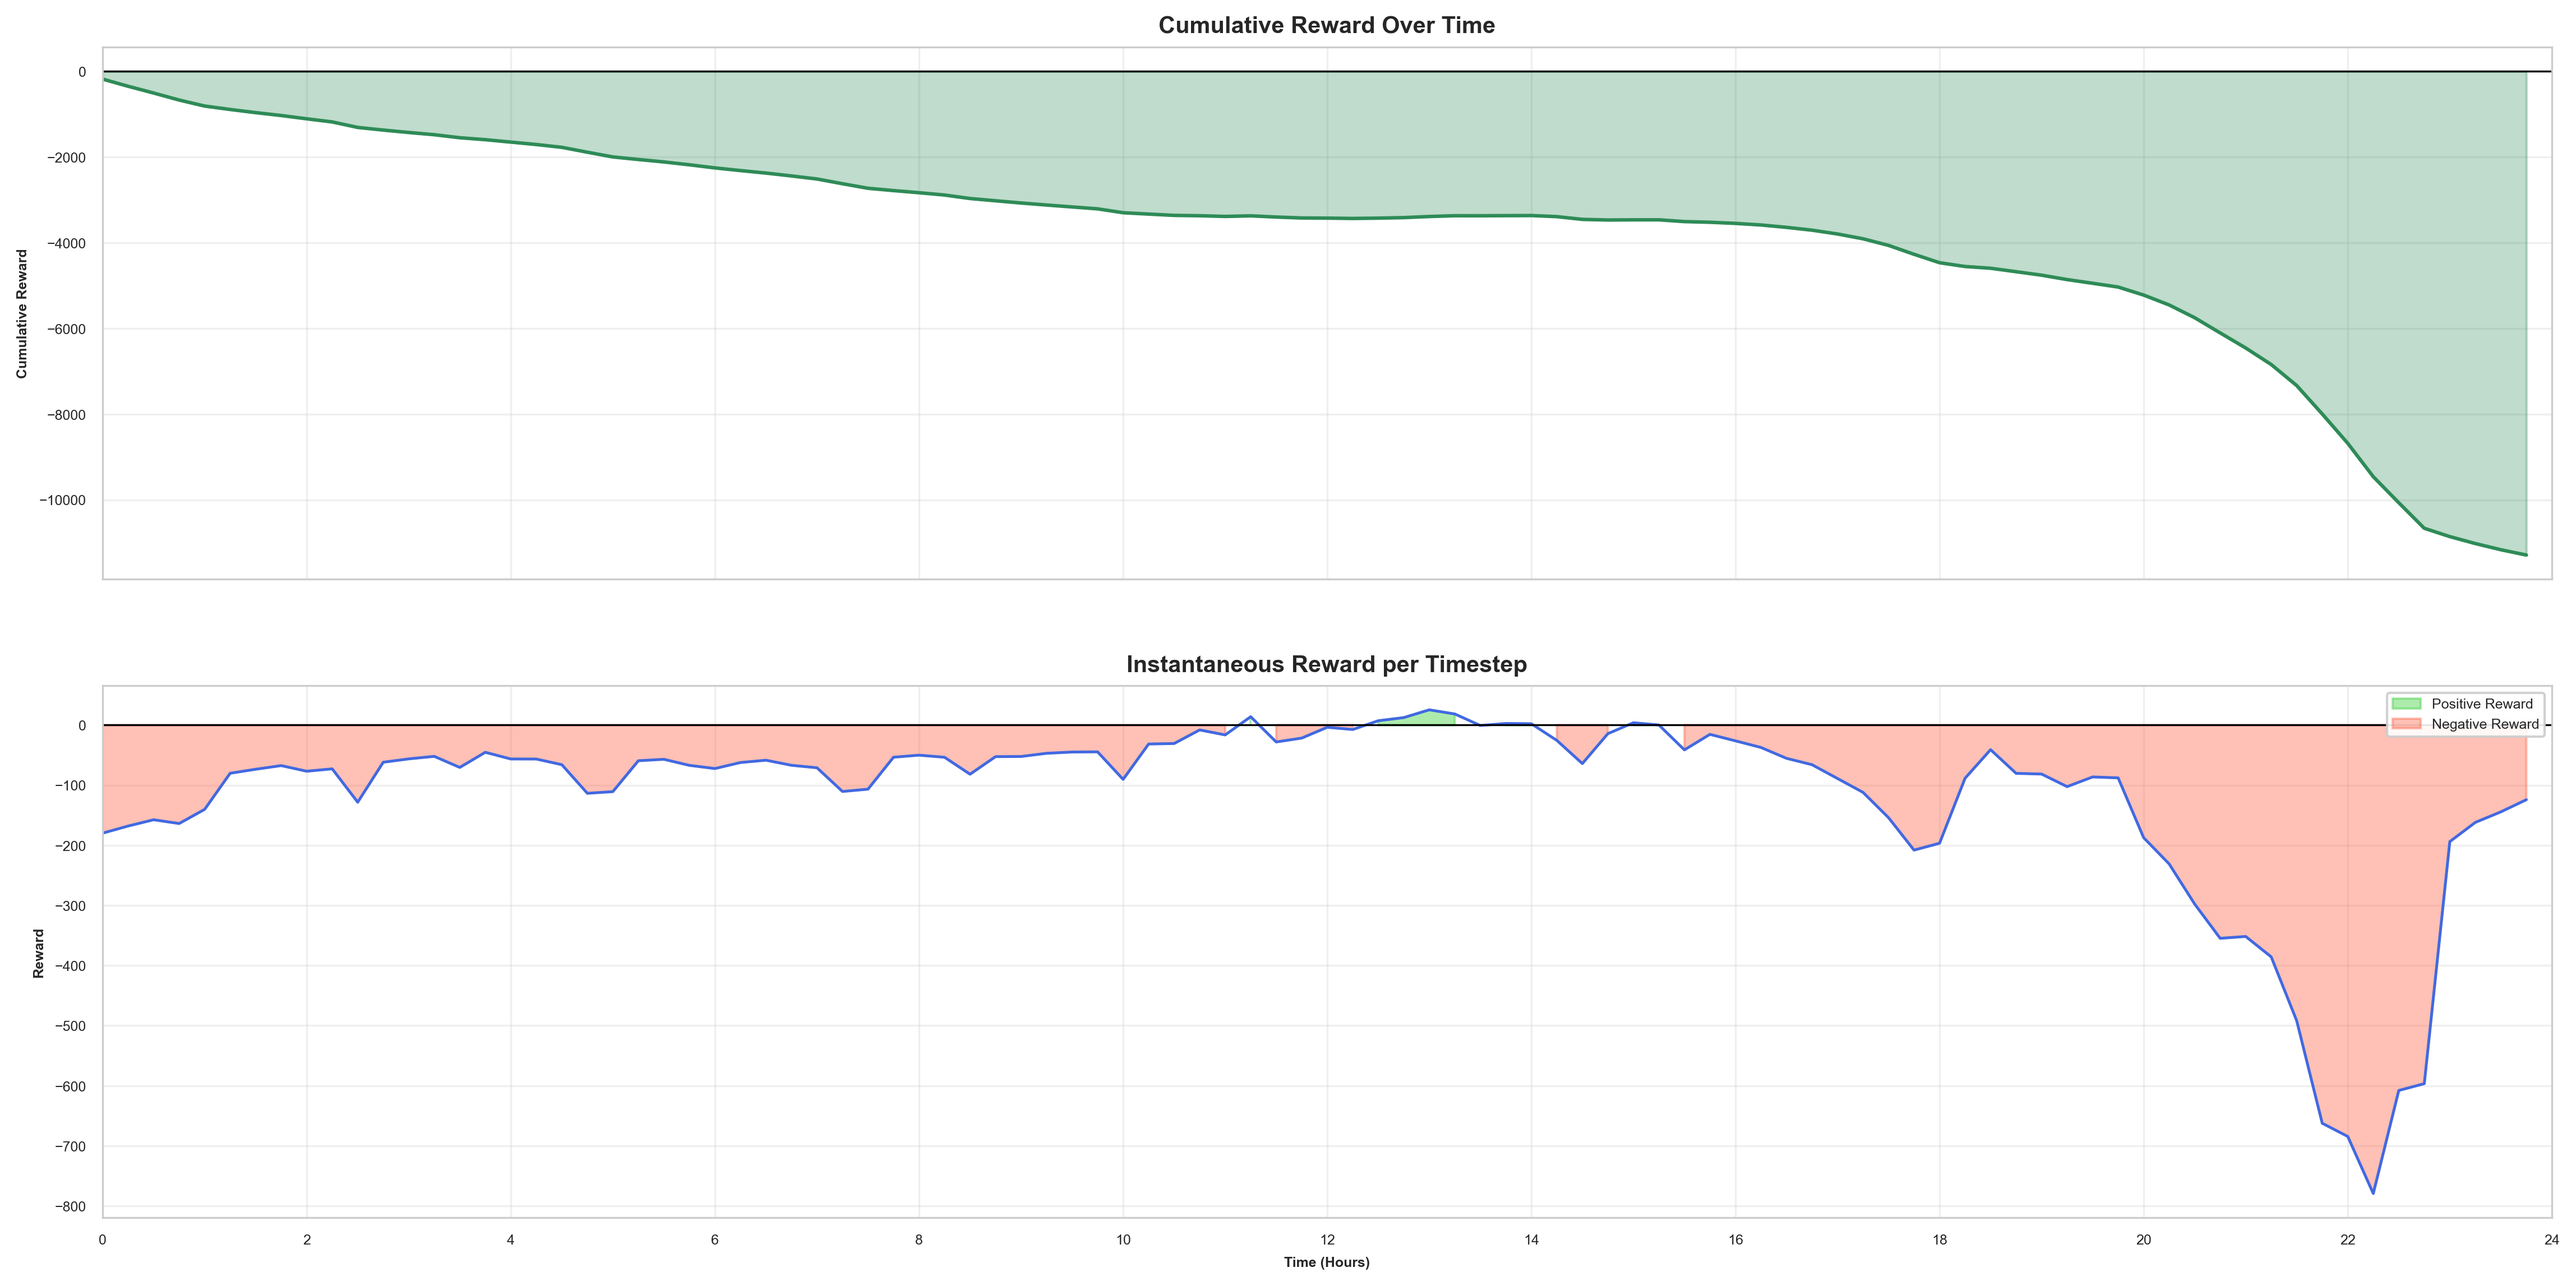
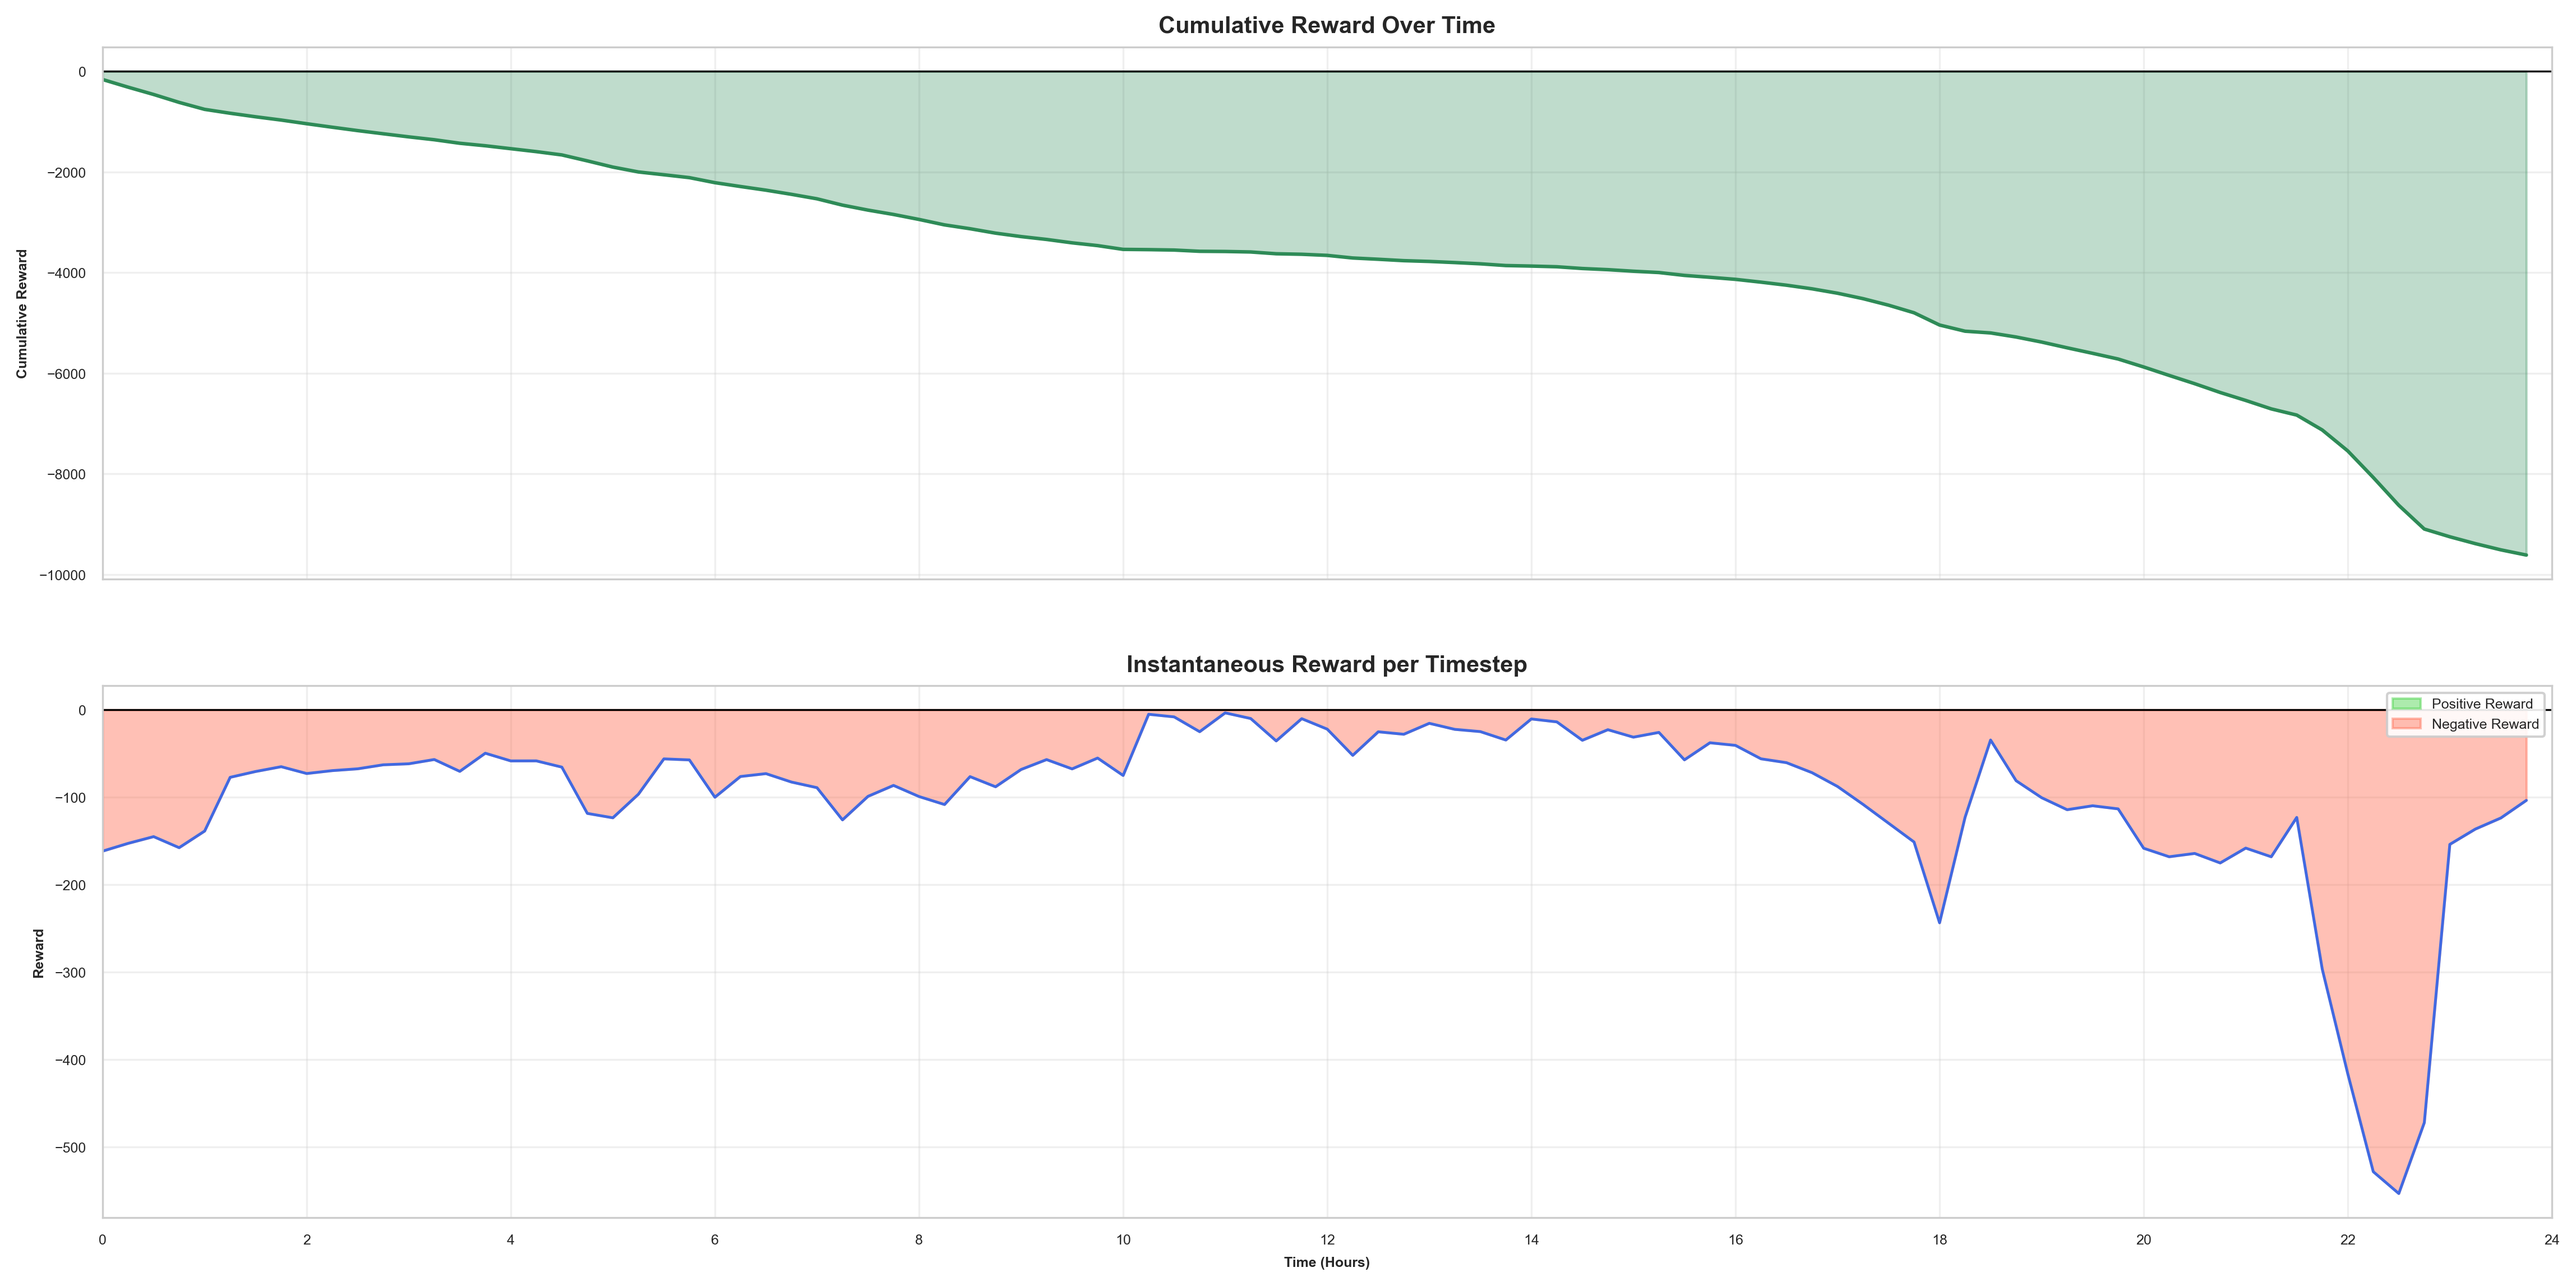
Use cloudy_reduced_solar scenario; update plots

diff --git a/RL_agent/train.py b/RL_agent/train.py
@@ -33,13 +33,12 @@ def main():
     #   "intermittent_solar_dropouts"   : Random solar dropouts
     #   "load_higher_day"               : All loads scaled up
     #   "Next_Day_Forecast_21"         : Load dip 00:00-02:00
-    #   "solar_shifted_late"            : Solar delayed (morning clouds)
     #   "solar_unavailable_day"         : Solar set to 0 all day
     #   "weekend_low_load"              : All loads scaled down
 
     # Set to a scenario name (e.g., "heatwave_day") to train on that specific scenario.
     # Set to None to use the default 'load_forecast.csv' and 'solar_forecast_formatted.csv'
-    scenario_name = "load_higher_day_21_nodes"  # Use 21-node version for 21-load system
+    scenario_name = "cloudy_reduced_solar_21_nodes"  # Use 21-node version for 21-load system
 
 
     

diff --git a/RL_agent/plot_results.py b/RL_agent/plot_results.py
@@ -21,7 +21,7 @@ STATS_PATH = os.path.join(script_dir, "checkpoints", "best_model", "vecnormalize
 OUTPUT_DIR = os.path.join(os.path.dirname(script_dir), "results_plots")  # Where to save plots
 
 steps_to_plot = 96  # One day (15 min intervals)
-SCENARIO_NAME = "load_higher_day_21_nodes" # Set to same as train.py (e.g. "heatwave_day") or None for default
+SCENARIO_NAME = "cloudy_reduced_solar_21_nodes" # Set to same as train.py (e.g. "heatwave_day") or None for default
  
 # Node configuration
 SOLAR_NODE_INDICES = [3, 5, 7, 10, 11, 13, 15, 17, 18, 19, 20]
